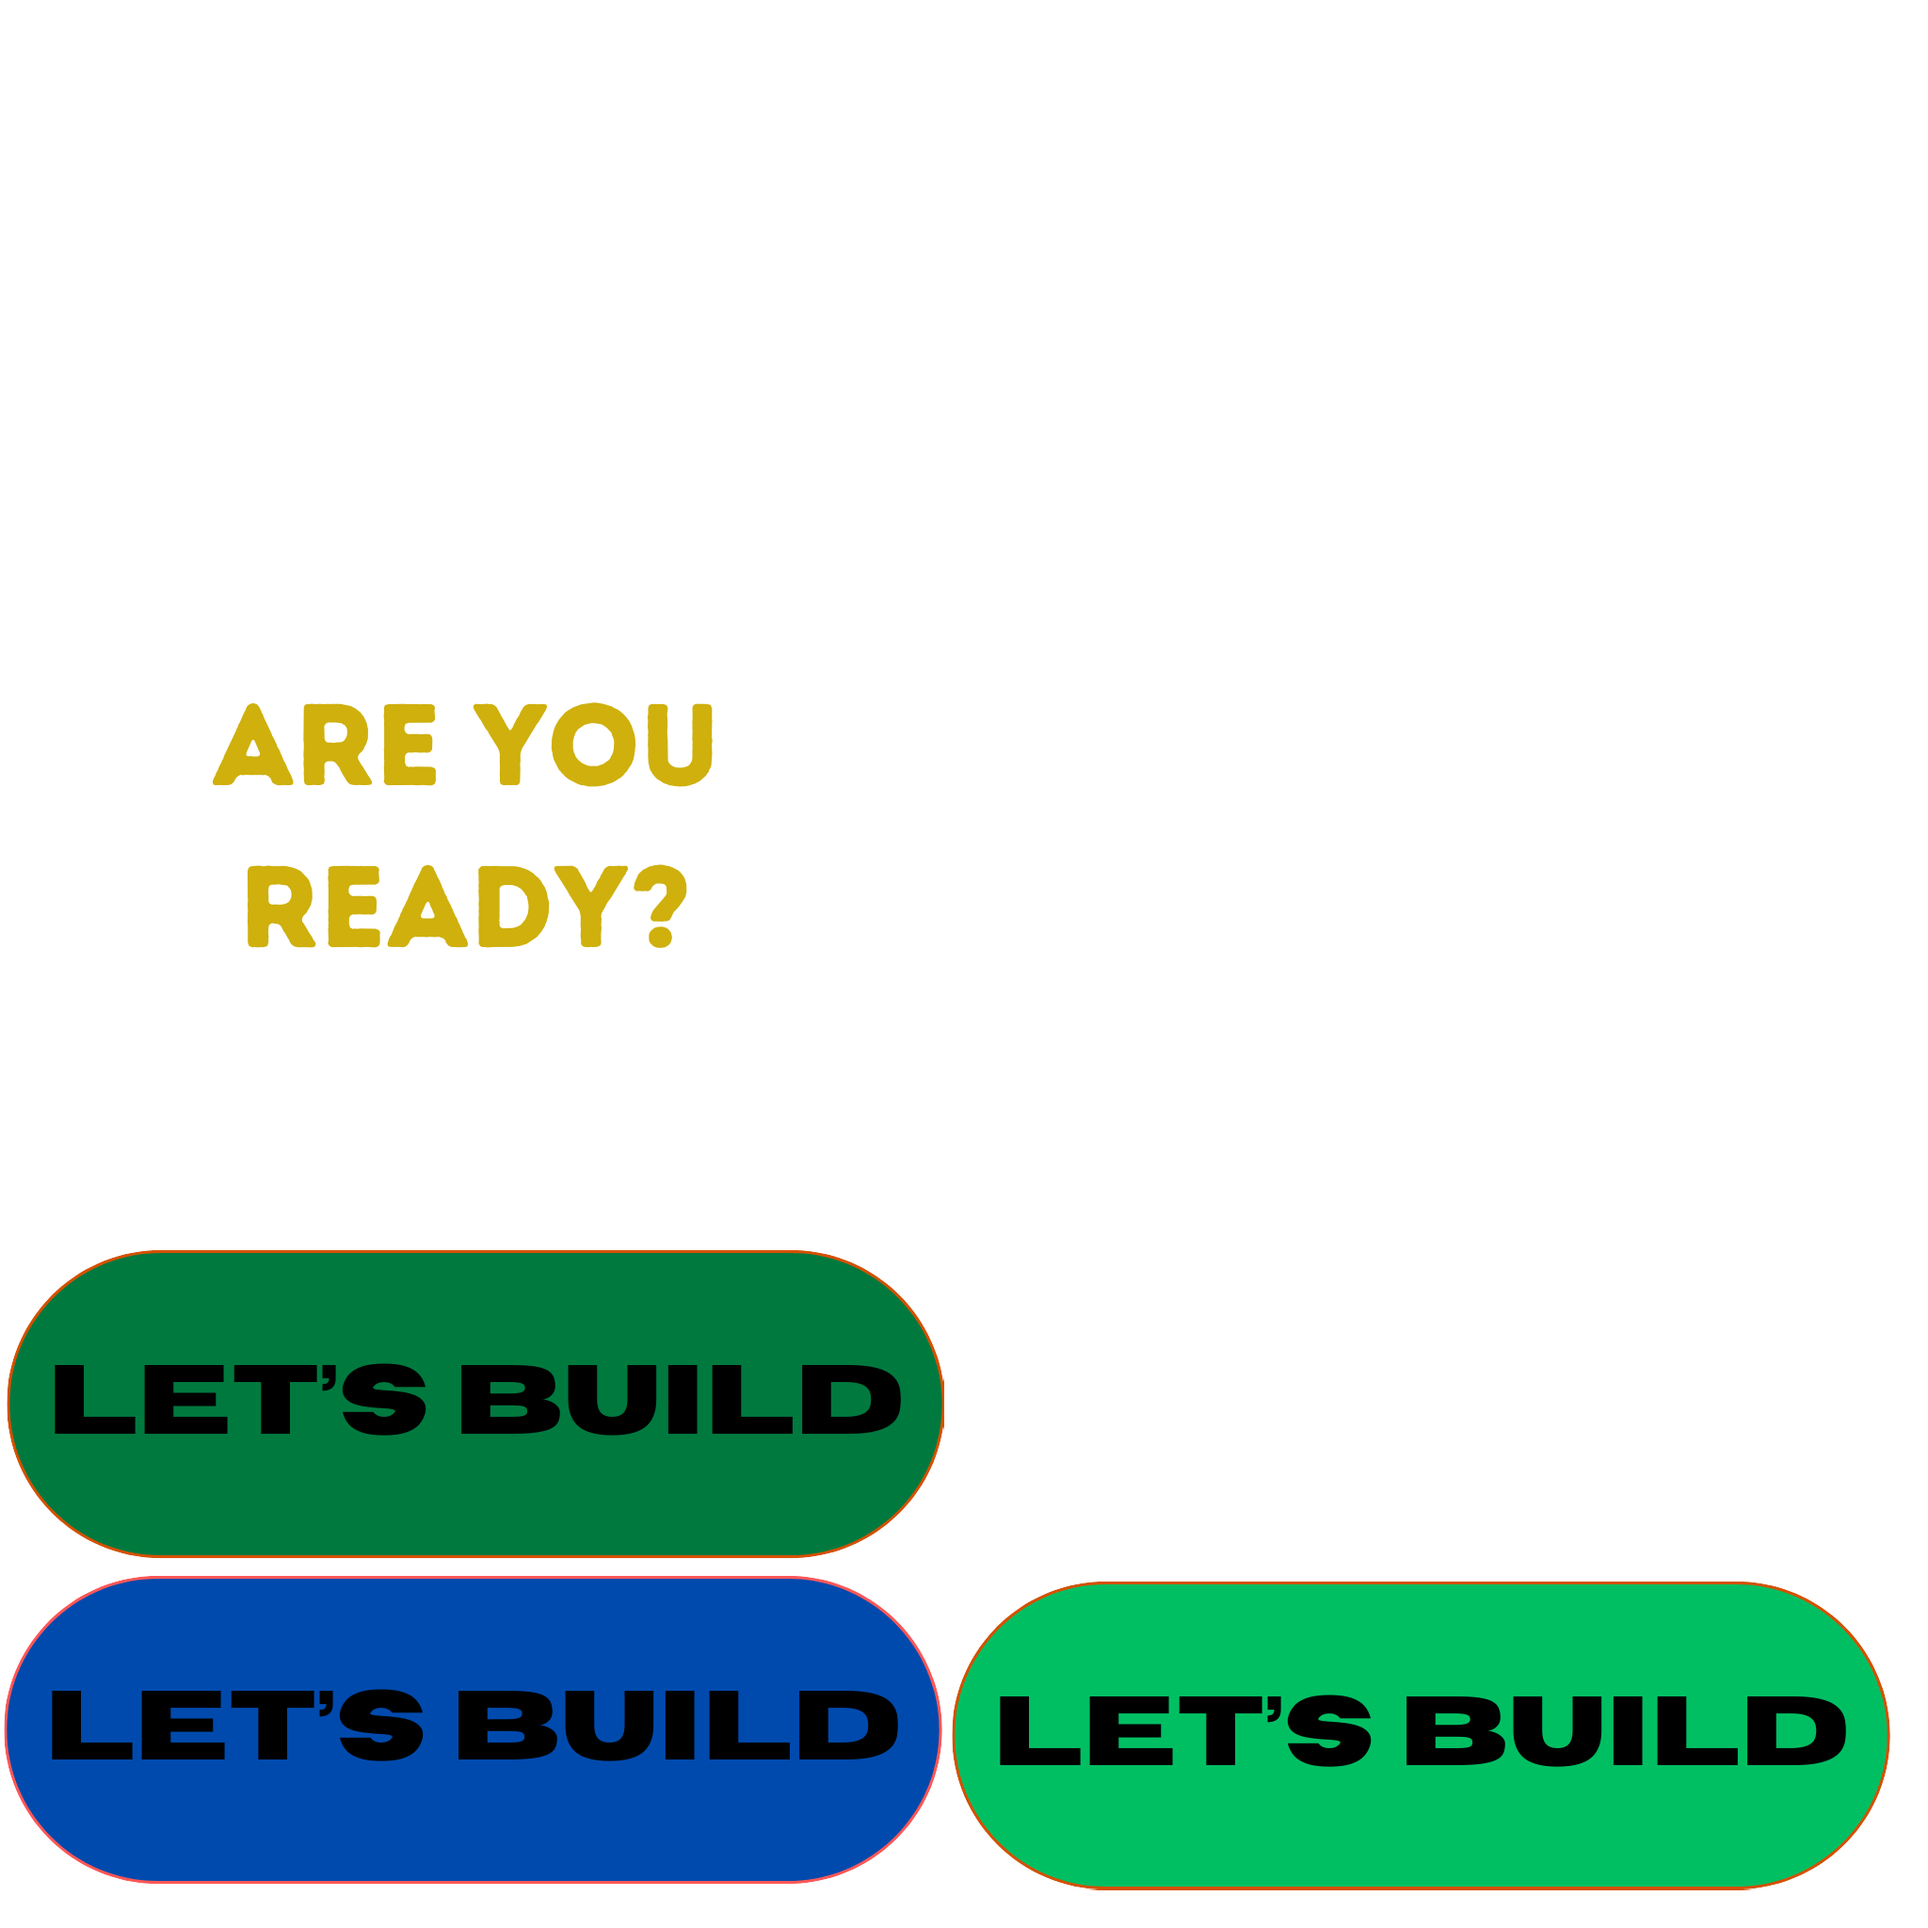
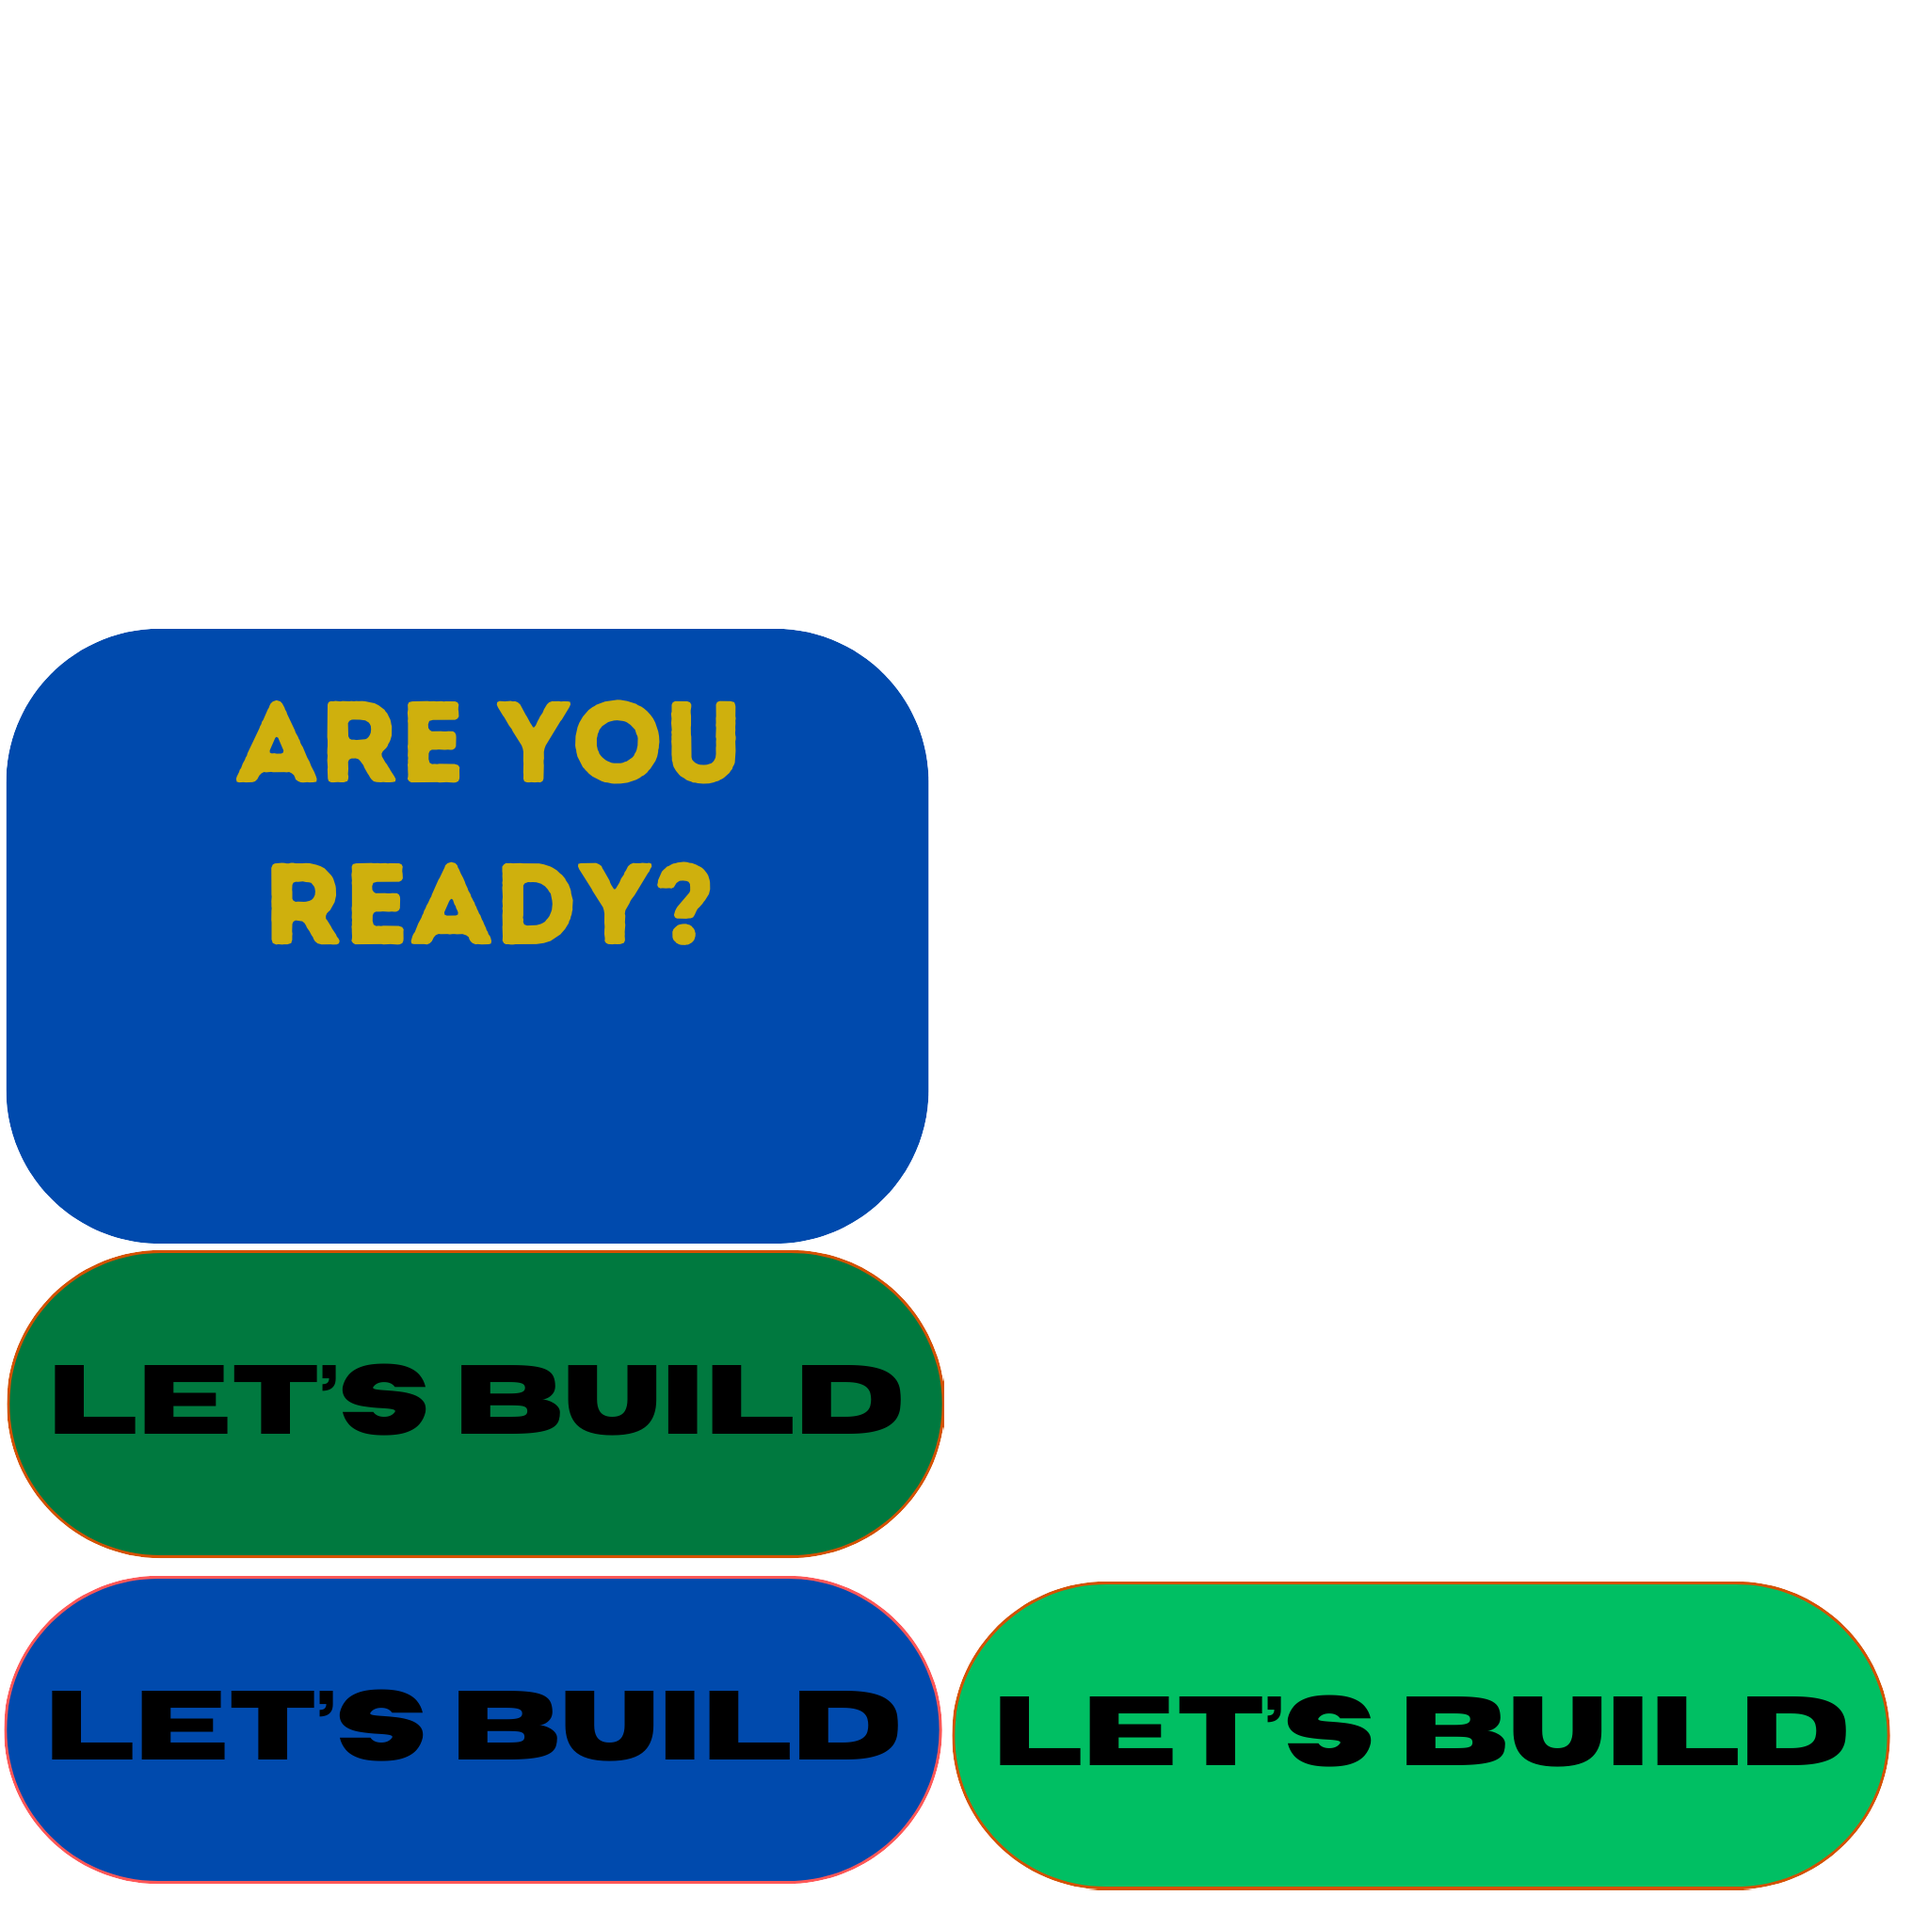
project: bufferscreen

Changed region(s): [[0.0, 0.3125, 0.5, 0.6562]]

diff --git a/core/src/Screens/BufferScreen.java b/core/src/Screens/BufferScreen.java
@@ -26,30 +26,24 @@ public class BufferScreen implements Screen  {
     public BufferScreen(MakeAndBreak game){
         this.game = game;
         gamecam = new OrthographicCamera();
-        gameport = new FitViewport(game.WIDTH, game.HEIGHT, gamecam);
-        gamecam.setToOrtho(false, game.WIDTH, game.HEIGHT);
-        gamecam.translate(-game.WIDTH/2,-game.HEIGHT/2);
+        gameport = new FitViewport(1520 , 600, gamecam);
+        gamecam.setToOrtho(false, 1520,600);
+        gamecam.translate(-1520/2,-600/2);
         this.stage = new Stage(gameport, game.batch);
     }
     @Override
     public void show() {
         TextureAtlas atlas = new TextureAtlas(Gdx.files.internal("ready.atlas"));
         Skin skin = new Skin(Gdx.files.internal("ready.json"),atlas);
-        Gdx.input.setInputProcessor(stage);
 
 
         ImageButton.ImageButtonStyle letsbuildStyle = new ImageButton.ImageButtonStyle();
         letsbuildStyle = skin.get("letsbuild", ImageButton.ImageButtonStyle.class);
 
-        ImageButton.ImageButtonStyle readyStyle = new ImageButton.ImageButtonStyle();
-        readyStyle = skin.get("ready", ImageButton.ImageButtonStyle.class);
-
-        ImageButton readyButton = new ImageButton(readyStyle);
+        System.out.println(game.WIDTH);
         ImageButton letsbuildButton = new ImageButton(letsbuildStyle);
-        letsbuildButton.setSize(300,102);
-        readyButton.setSize(99*3,65*3);
-        readyButton.setPosition(game.WIDTH / 2 - readyButton.getWidth() / 2, game.HEIGHT / 2 - readyButton.getHeight() / 2 + letsbuildButton.getHeight()/2 + 10);
-        letsbuildButton.setPosition(game.WIDTH / 2 - letsbuildButton.getWidth() / 2, game.HEIGHT / 2 - letsbuildButton.getHeight() / 2);
+        letsbuildButton.setPosition(0,0);
+//        letsbuildButton.setPosition(game.WIDTH / 2 - letsbuildButton.getWidth() / 2, game.HEIGHT / 2 - letsbuildButton.getHeight() / 2);
         letsbuildButton.addListener(new ClickListener() {
             @Override
             public void clicked(InputEvent event, float x, float y) {
@@ -62,13 +56,12 @@ public class BufferScreen implements Screen  {
             }
         });
 
-        stage.addActor(readyButton);
         stage.addActor(letsbuildButton);
     }
 
     @Override
     public void render(float delta) {
-        Gdx.gl.glClearColor(0/255f, 0/255f, 128/255f, 100/255f);
+        Gdx.gl.glClearColor(4/255f, 105/255f, 30/255f, 1);
         Gdx.gl.glClear(GL20.GL_COLOR_BUFFER_BIT);
         stage.setViewport(gameport);
         stage.draw();
